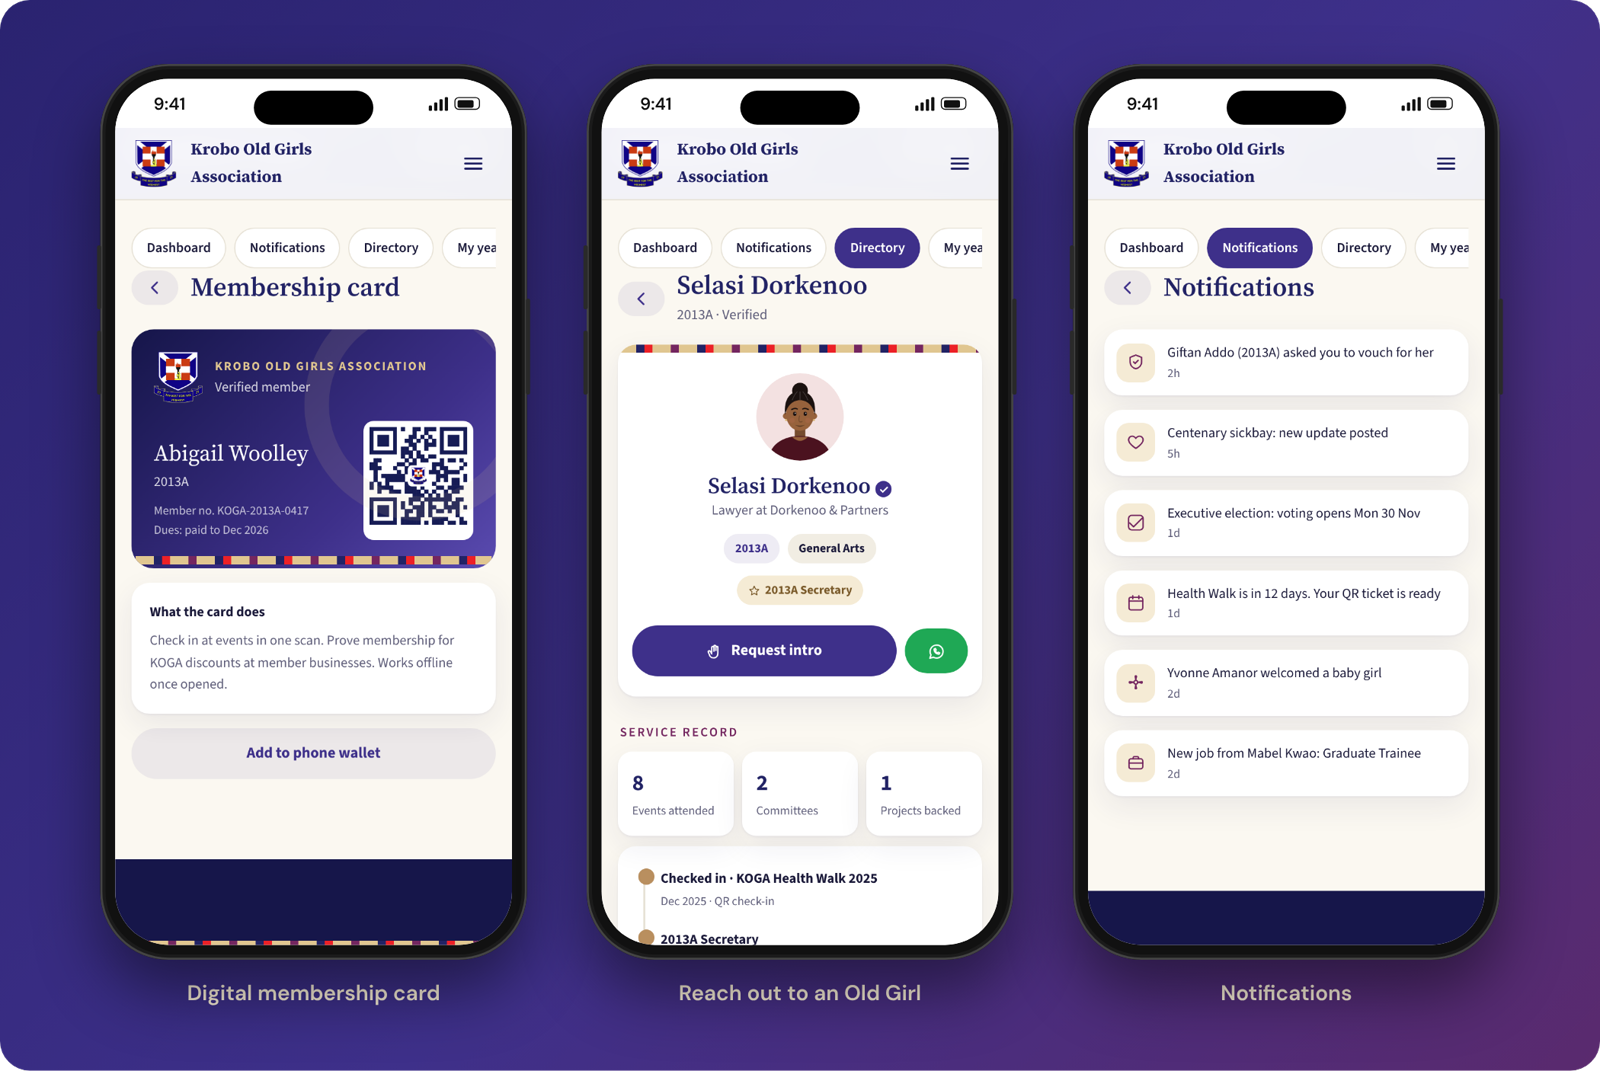
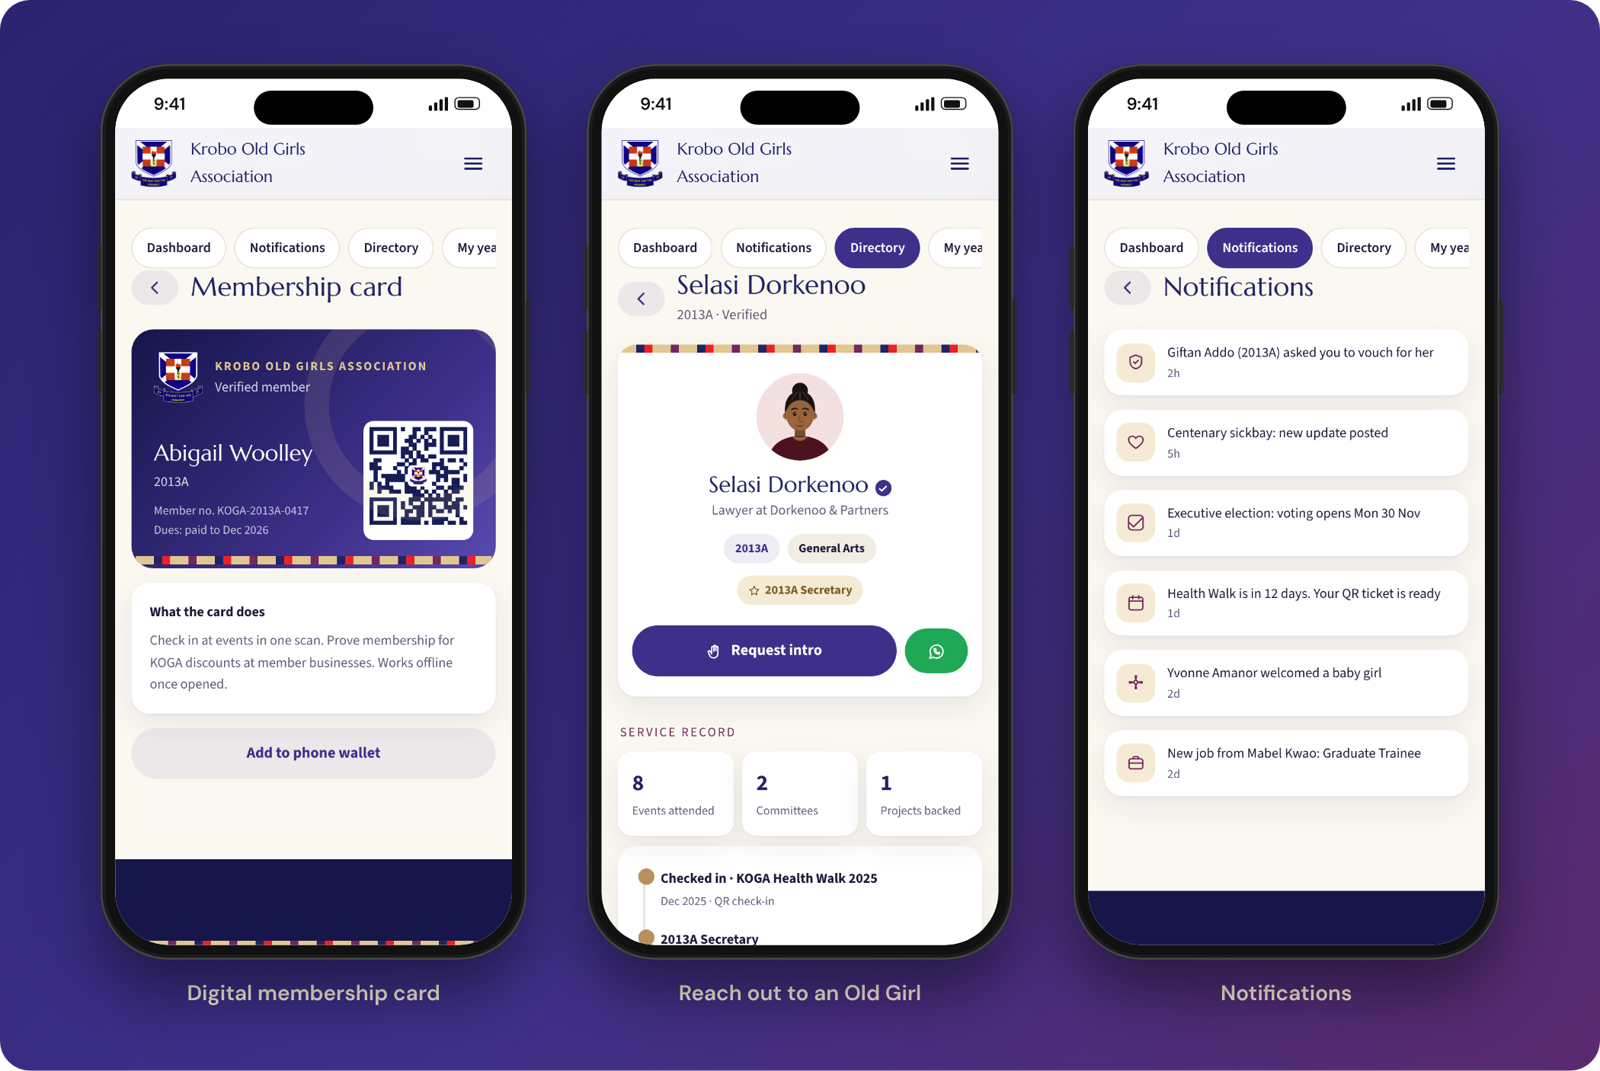
Use Marcellus for headings

diff --git a/index.html b/index.html
@@ -28,7 +28,7 @@
 <meta name="claude:viewport-fit-sides" content="cover">
 <meta name="theme-color" content="#222365">
 <link rel="preconnect" href="https://fonts.googleapis.com">
-<link href="https://fonts.googleapis.com/css2?family=Source+Serif+4:ital,opsz,wght@0,8..60,400..700;1,8..60,400..700&family=Source+Sans+3:ital,wght@0,400..700;1,400..700&display=swap" rel="stylesheet">
+<link href="https://fonts.googleapis.com/css2?family=Marcellus&family=Source+Sans+3:ital,wght@0,400..700;1,400..700&display=swap" rel="stylesheet">
 <style>
 /* Layout: desktop-first school/alumni site. Full-bleed bands, 1200px content column, members' area as a sidebar app behind login. */
 :root{
@@ -53,7 +53,7 @@
   --gold:var(--bronze); --gold-2:var(--champagne); --gold-soft:var(--cream); --wine:var(--plum);
   --ink-c:var(--text);
 
-  --serif:'Source Serif 4',Georgia,'Times New Roman',serif;
+  --serif:'Marcellus',Georgia,'Times New Roman',serif;
   --sans:'Source Sans 3',system-ui,-apple-system,'Segoe UI',Roboto,sans-serif;
   --s-hero:clamp(40px,5.2vw,68px); --s-h2:clamp(30px,3.4vw,44px); --s-h3:22px; --s-body:17px; --s-small:15px; --s-eyebrow:12px;
   --r:18px; --shadow:0 1px 2px rgba(34,35,101,.06),0 10px 30px rgba(34,35,101,.08); --shadow-lg:0 30px 60px -20px rgba(22,22,74,.35);
@@ -453,6 +453,10 @@ h1,h2,h3{font-family:var(--serif);font-weight:600;line-height:1.12;margin:0;text
 }
 
 .prog .p span.muted{color:var(--muted)}
+
+/* Marcellus has one weight and no italic: keep it as drawn, never faked bold or slanted */
+h1,h2,h3,.serif,[style*="var(--serif)"],.brand .n,.tile b,.lcard b,.count b,.edate b,.ring b,.hero .meta b,.frame .stamp b,.pillar .n,.ph,.cent::after{font-weight:400;font-synthesis:none}
+h1 em,h2 em,h3 em{font-style:normal}
 </style>
 </head>
 <body>

diff --git a/README.md b/README.md
@@ -139,7 +139,7 @@ Every push runs [Website checks](https://github.com/ABIGAILDEBBY/koga-website/ac
 - **Design and product:** Abigail Woolley, Junior KOGA, 2013A
 - **Crest:** Krobo Girls' crest from [Wikimedia Commons](https://commons.wikimedia.org/wiki/File:Krobo_Girls_Crest.png) (CC0), with a website watermark removed. To be replaced with the school's official file.
 - **Centenary logo:** cropped from an official Centenary flyer until the master file is available.
-- **Fonts:** [Source Serif 4](https://fonts.google.com/specimen/Source+Serif+4) and [Source Sans 3](https://fonts.google.com/specimen/Source+Sans+3) by Adobe, open source (SIL Open Font License), served by Google Fonts.
+- **Fonts:** [Marcellus](https://fonts.google.com/specimen/Marcellus) (headings, by Astigmatic) and [Source Sans 3](https://fonts.google.com/specimen/Source+Sans+3) (body, by Adobe), both open source (SIL Open Font License), served by Google Fonts.
 
 The KOGA name, crest and Centenary branding belong to the Krobo Old Girls Association and Krobo Girls' Presbyterian Senior High School.
 
